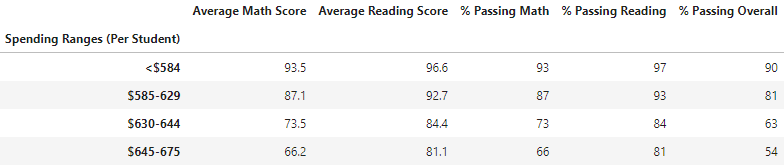
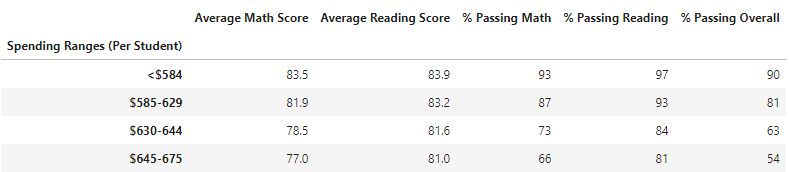
Updated readme and fixed bug in initial analysis.

diff --git a/README.md b/README.md
@@ -4,17 +4,6 @@
 
 1. Overview of the school district analysis: Explain the purpose of this analysis.
 
-2. Results: Using bulleted lists and images of DataFrames as support, address the following questions.
-
-    * How is the district summary affected?
-    * How is the school summary affected?
-    * How does replacing the ninth graders’ math and reading scores affect Thomas High School’s performance relative to the other schools?
-    * How does replacing the ninth-grade scores affect the following:
-        * Math and reading scores by grade
-        * Scores by school spending
-        * Scores by school size
-        * Scores by school type
-
 3. Summary: Summarize four changes in the updated school district analysis after reading and math scores for the ninth grade at Thomas High School have been replaced with NaNs.
 
 ## Delete me later: Deliverible 3 grading rubric
@@ -47,7 +36,7 @@ Two copies of this analysis are contained:
     * Effect of cheating scandal on aggregates
 7. Challenges
 8. Further analysis
-9. Image appendix
+9. [Appendix](#appendix)
 
 
 ## Resources
@@ -101,13 +90,34 @@ Current budget is inversely correlated with actual performance.  (How does this 
 
 ### Effect of cheating scandal on aggregates
 
+All data tables used an anaysis are referenced below in the [Appendix](#appendix).
+
+* District summary:
+    * Average math score drops from 79.0 to 78.9, but average reading score remains 81.9.
+    * Percent passing math drops from 75% to 74.8%.
+    * Percentage passing reading drops from 85.8% to 85.7%.
+    * Overall passage rate drops from 65.2% to 64.9%
+* School Summary:
+    * Thomas High average reading score rises from 83.8 to 83.9, while math stays steady at 83.4.
+    * Percent passing math drops from 93.3% to 93.2%.
+    * Percentage passing reading drops from 97.3% to 97.2%.
+    * Overall passage rate drops from 90.9% to 90.6%
+* Top 5 schools:
+    * Thomas High's reduced overall passage rate drops it from uncontested #2 ranked school in the district, to a tie with Griffin High School, which also has a 90.6% overall passing rate.
+* Math and reading scores by grade:
+    * Because the cheating scandal was contained in one grade level at one school, the only difference in this analysis is the missing values for Thomas High 9th graders (listed in the tables below as "nan", which stands for "not a number".)
+* The following categories had negligible effect based on calculation methodology and significant figures in output:
+    * Scores by school spending
+    * Scores by school size
+    * Scores by school type
+
 ## Challenges
 
 Formatting was a significant concern.  In particular, the ability to retain a formatted column before more analysis needed to be conducted.
 
 ## Further analysis 
 
-## Image appendix
+## Appendix <a name="appendix"></a>
 
 ### District aggregation
 
